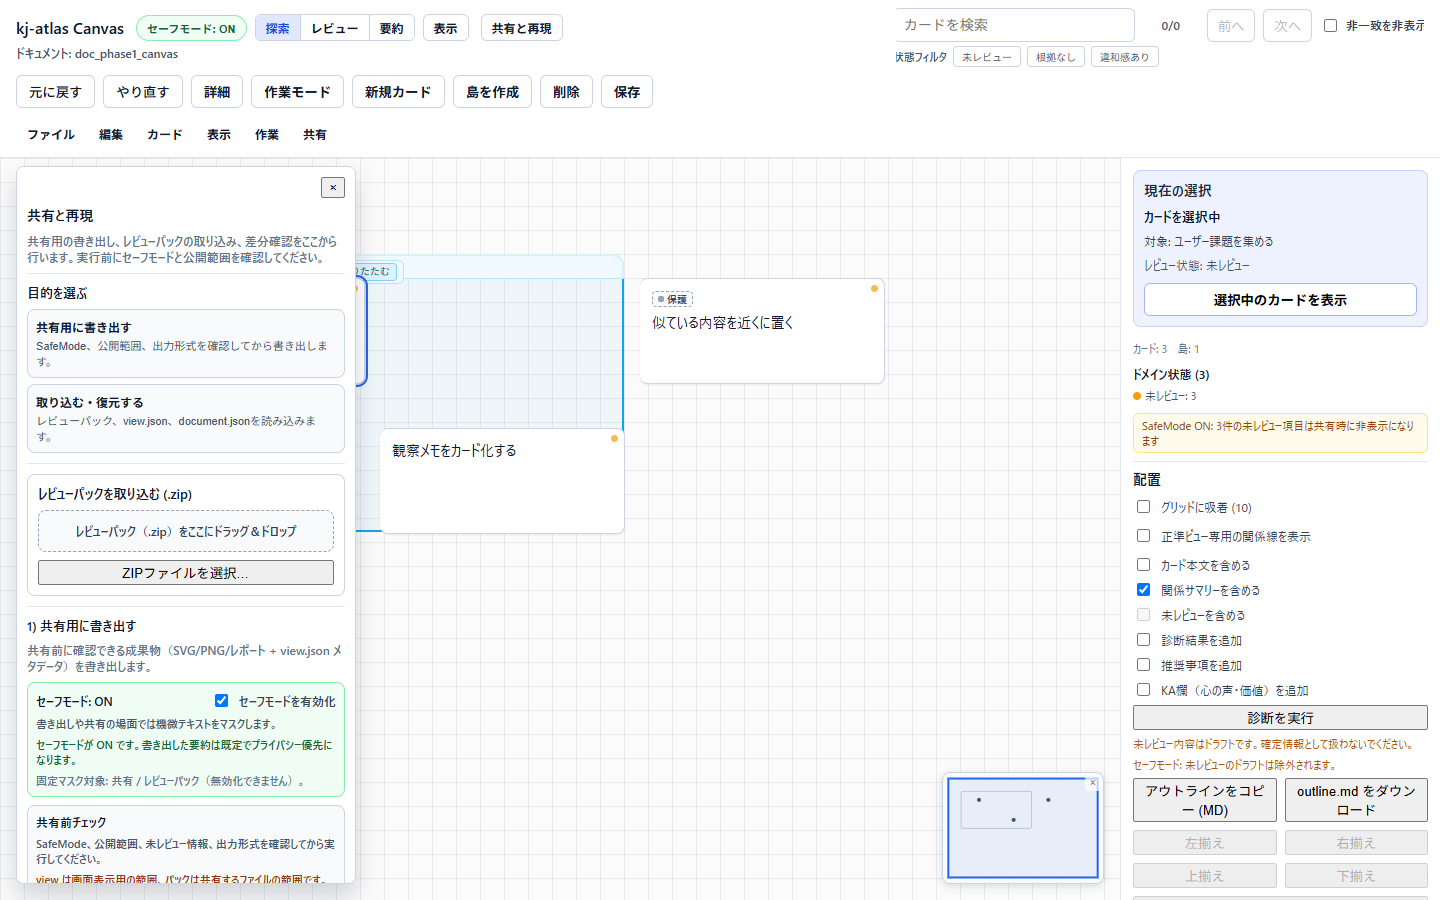
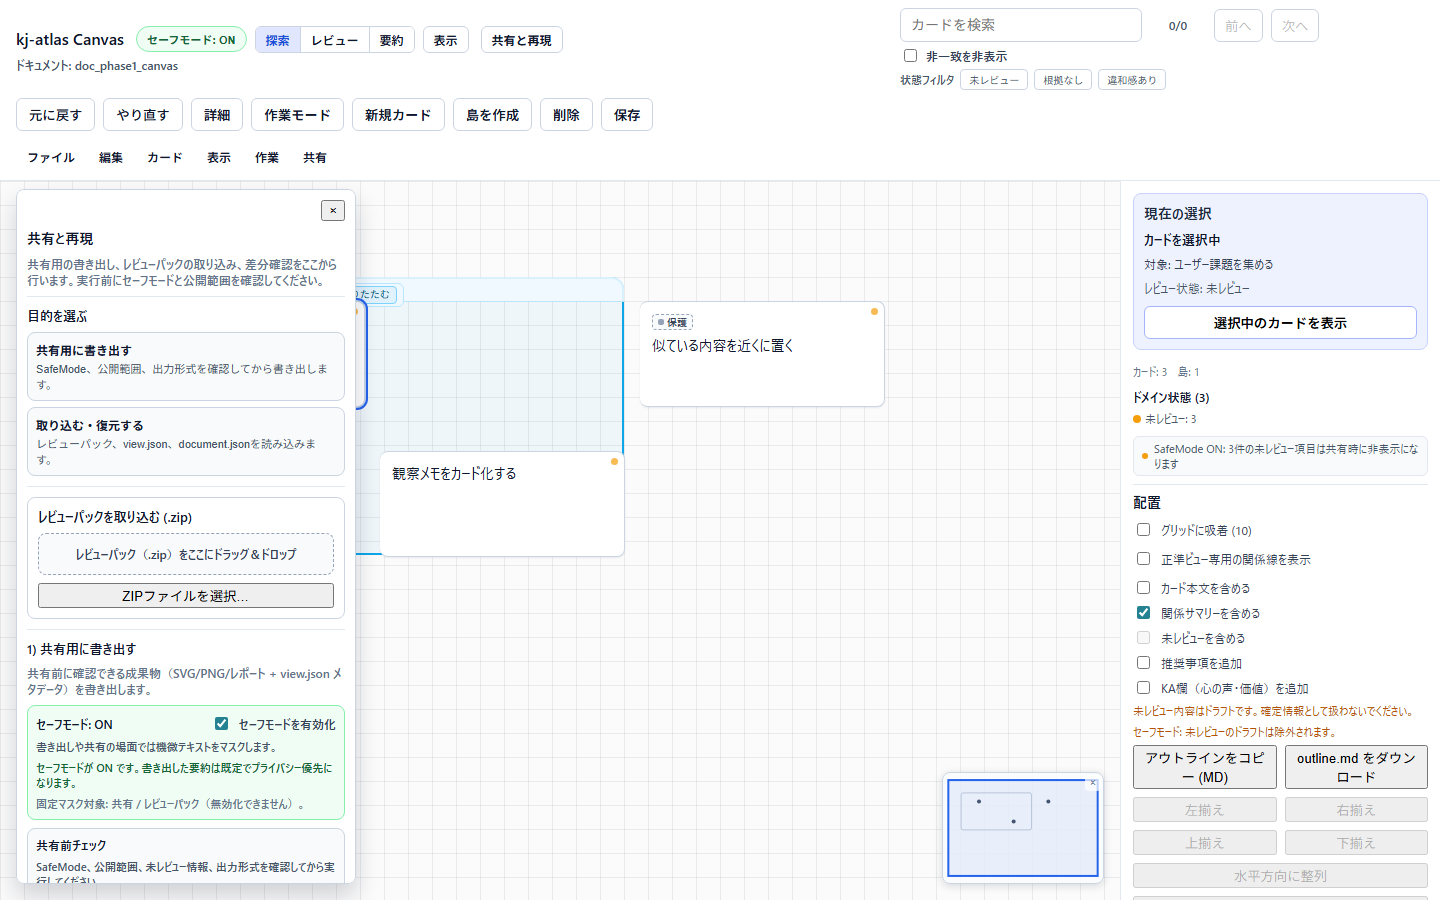
docs(ui): refresh verified public screenshots

diff --git a/04_Documentation/assets/screenshots/README.md b/04_Documentation/assets/screenshots/README.md
@@ -16,13 +16,13 @@
 
 ### 現行の検証済みセット
 
-共通条件: source revision `1367740d8d03cf53bc0ad1eb09ffc45684ff51e1`、撮影日2026-07-11、locale `ja`、`KJ_ATLAS_LLM_PROVIDER=none`、秘密情報なし、Playwright 1.58.2、Google Chrome 150.0.7871.101。
+共通条件: source revision `6757d855c3ef6c0f7b444020e18f5ecd62fa4ec9`、撮影日2026-08-02、locale `ja`、`KJ_ATLAS_LLM_PROVIDER=none`、秘密情報なし、Playwright 1.58.2、Playwright管理 Chromium 145.0.7632.6。
 
 | Capture ID | 対象 | fixture | viewport | 生成スクリプト | 検証結果 |
 | --- | --- | --- | --- | --- | --- |
-| `release-ui-20260711` | `start-document-entry.png`, `app-canvas-overview.png`, `selection-context-card.png`, `share-export-safe-mode.png`, `mobile-toolbar-smoke-390.png` | `doc_phase1_canvas`の決定論的release sample | 1440×900、390×720 | `capture_release_screenshots.mjs` | 5/5生成成功 |
-| `product-value-ui-20260711` | `product-value-*.png` 6件 | first meaningful map、ambiguity、review packの決定論的fixture | 1440×900 | `capture_product_value_screenshots.mjs` | 6/6生成成功。重複した`島を作成`をヘッダーへ限定するselector修正後に再実行 |
-| `ui-catalog-20260711` | `ui-*.png` 12件 | `buildCatalogDocument()` / `doc_phase1_canvas` | 1440×900、768×900、960×900 | `capture_ui_catalog.mjs` | 12/12生成成功 |
+| `release-ui-20260802` | `start-document-entry.png`, `app-canvas-overview.png`, `selection-context-card.png`, `share-export-safe-mode.png`, `mobile-toolbar-smoke-390.png` | `doc_phase1_canvas`の決定論的release sample | 1440×900、390×720 | `capture_release_screenshots.mjs` | 5/5生成成功 |
+| `product-value-ui-20260802` | `product-value-*.png` 6件 | first meaningful map、ambiguity、review packの決定論的fixture | 1440×900 | `capture_product_value_screenshots.mjs` | 6/6生成成功 |
+| `ui-catalog-20260802` | `ui-*.png` 12件 | `buildCatalogDocument()` / `doc_phase1_canvas` | 1440×900、768×900、960×900 | `capture_ui_catalog.mjs` | 12/12生成成功。島選択をキーボード操作し、選択状態の表示を待つようにして再実行 |
 
 標準コマンド:
 
@@ -33,7 +33,7 @@ node .\scripts\capture_product_value_screenshots.mjs
 node .\scripts\capture_ui_catalog.mjs
 ```
 
-2026-07-11の検証環境ではPlaywright同梱Chromiumを取得できなかったため、`KJ_ATLAS_SCREENSHOT_BROWSER_PATH=C:\Program Files\Google\Chrome\Application\chrome.exe` を指定して撮影した。これはbrowser実体だけの代替であり、fixture、locale、viewport、出力先、撮影操作は各正本スクリプトと同一である。未指定時は従来どおりPlaywright管理browserを使う。
+2026-08-02は `KJ_ATLAS_SCREENSHOT_BROWSER_PATH` を指定せず、Playwright管理 Chromium で撮影した。23件すべてを目視し、秘密情報・API key・顧客データがないこと、日本語ラベルと SafeMode / 未レビュー / readOnly の境界が意図どおりであること、390pxを含む対象viewportで主要操作が見切れないことを確認した。初回確認で `ui-selection-context-island.png` が島未選択の状態を撮っていたため、capture scriptへ状態確認を追加してから最終セットを再生成した。
 
 ### stale判定と公開Go条件
 

diff --git a/01_Plans/issues/issue-DOC-SHOT-01-public-screenshot-set-stale-and-capture-selector-rot.md b/01_Plans/issues/issue-DOC-SHOT-01-public-screenshot-set-stale-and-capture-selector-rot.md
@@ -3,7 +3,7 @@
 > 個人OSS・プレリリース段階では `ADR-0039` を適用し、実行に必要な情報だけを記載する。
 
 - Type: Documentation
-- Status: Open
+- Status: Done
 - Lifecycle: Draft -> Open -> In Progress -> Done
 - Source Issue: `MVP-EXIT-01`
 - Priority: P1
@@ -38,9 +38,9 @@
 ## 受入条件
 
 - [x] capture script 3本が現行UIに対して最後まで実行できる。
-- [ ] 公開画像23件が候補commitのUIと一致する。
-- [ ] `04_Documentation/assets/screenshots/README.md` のprovenance行（対象revision、撮影日、browser、生成結果）が更新されている。
-- [ ] 再撮影した画像に秘密情報が含まれないことを目視確認する。
+- [x] 公開画像23件が候補commitのUIと一致する。
+- [x] `04_Documentation/assets/screenshots/README.md` のprovenance行（対象revision、撮影日、browser、生成結果）が更新されている。
+- [x] 再撮影した画像に秘密情報が含まれないことを目視確認する。
 
 ## 検証計画
 
@@ -54,6 +54,13 @@ node ./scripts/capture_ui_catalog.mjs
 ```
 
 - 期待結果: 5/5、6/6、12/12の生成成功。生成物とヘッダー構成が現行UIと一致する。
+
+## 検証結果
+
+- source revision `6757d855c3ef6c0f7b444020e18f5ecd62fa4ec9`、2026-08-02、Playwright 1.58.2 / Playwright管理 Chromium 145.0.7632.6で再撮影した。
+- release 5/5、product-value 6/6、UI catalog 12/12、合計23/23件の生成に成功した。
+- 23件を目視し、秘密情報・API key・顧客データがないこと、日本語ラベルと SafeMode / 未レビュー / readOnly の境界、390 / 768 / 960pxを含むレイアウトを確認した。
+- 初回目視で `ui-selection-context-island.png` が島未選択のまま成功扱いになる問題を検出した。島選択をキーボード操作へ変更し、選択状態の表示を待つfail guardを追加してから12件を再生成した。
 
 ## 補足
 

diff --git a/01_Plans/issues/issue-QA-MONKEY-17-header-search-row-clipped-at-390px.md b/01_Plans/issues/issue-QA-MONKEY-17-header-search-row-clipped-at-390px.md
@@ -3,7 +3,7 @@
 > 個人OSS・プレリリース段階では `ADR-0039` を適用し、実行に必要な情報だけを記載する。
 
 - Type: Bug
-- Status: In Progress
+- Status: Done
 - Lifecycle: Draft -> Open -> In Progress -> Done
 - Source Issue: `MVP-EXIT-01`（人間受入項目の機械代替検証後に実施したモンキーテストで発見）
 - Priority: P2
@@ -76,12 +76,18 @@ clipped:
 - [x] 390pxで、検索欄・「状態フィルタ」・「非一致を非表示」がいずれも viewport 内に収まる（`left >= 0` かつ `right <= viewport幅`）。
 - [x] 768px / 960px / 1440px のレイアウトが退行しない。
 - [x] 切れが残る要素がある場合は、スクロールなど到達手段がある。
-- [ ] 公開画像 `mobile-toolbar-smoke-390.png` を `DOC-SHOT-01` の再撮影に合わせて更新する。
+- [x] 公開画像 `mobile-toolbar-smoke-390.png` を `DOC-SHOT-01` の再撮影に合わせて更新する。
 
 ## 検証計画
 
 - 実行する確認: 代表4幅（390 / 768 / 960 / 1440）で、ヘッダー内の可視要素の矩形が viewport に収まることを確認するE2E。既存の `header_toolbar_layout.spec.ts` / viewport系E2E。
 - 期待結果: 4幅すべてで見切れ0件。既存E2Eに退行なし。
+
+## 検証結果
+
+- `header_toolbar_layout.spec.ts` を含む近接E2E 19件成功。390 / 768 / 920 / 1280 / 1440pxでヘッダー検索行の可視要素がviewport内に収まることを矩形で確認した。
+- `ui-responsive-768.png` / `ui-responsive-960.png` / `mobile-toolbar-smoke-390.png` を再生成し、目視で退行と見切れがないことを確認した。
+- frontend全体のVitest 1324件、typecheck、build、docs-checkが成功した。
 
 ## 補足
 
